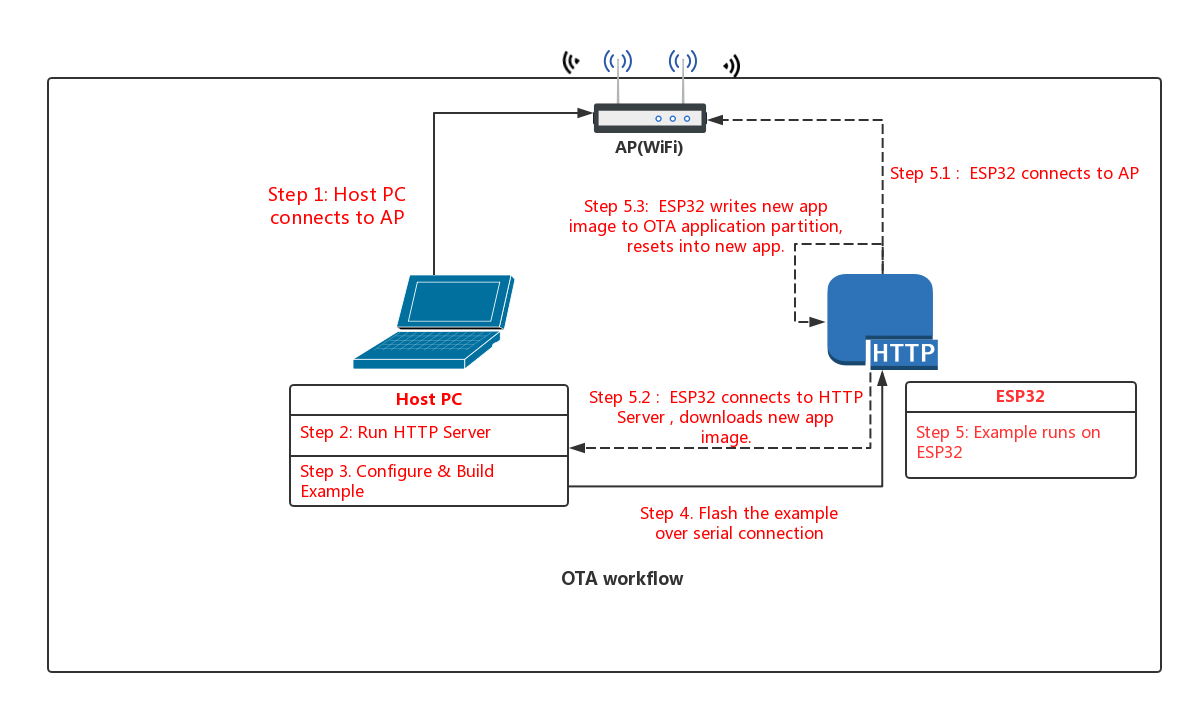
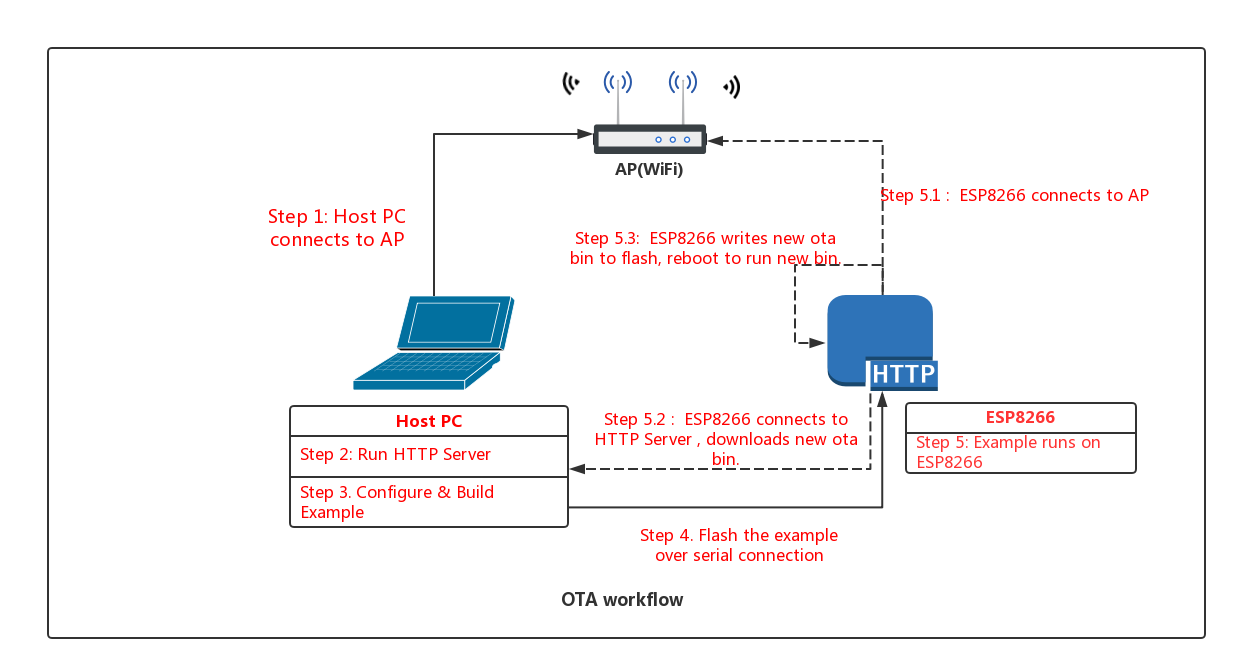
feat: port ota demo to esp8266 platform

Changed region(s): [[0.031, 0.0597, 0.9925, 0.9552], [0.6823, 0.209, 0.7133, 0.2388]]

diff --git a/examples/system/ota/main/ota_example_main.c b/examples/system/ota/main/ota_example_main.c
@@ -6,6 +6,7 @@
    software is distributed on an "AS IS" BASIS, WITHOUT WARRANTIES OR
    CONDITIONS OF ANY KIND, either express or implied.
 */
+#include <stdlib.h>
 #include <string.h>
 #include <sys/socket.h>
 #include <netdb.h>
@@ -28,7 +29,7 @@
 #define EXAMPLE_SERVER_IP   CONFIG_SERVER_IP
 #define EXAMPLE_SERVER_PORT CONFIG_SERVER_PORT
 #define EXAMPLE_FILENAME CONFIG_EXAMPLE_FILENAME
-#define BUFFSIZE 1024
+#define BUFFSIZE 1500
 #define TEXT_BUFFSIZE 1024
 
 static const char *TAG = "ota";

diff --git a/examples/system/ota/README.md b/examples/system/ota/README.md
@@ -9,9 +9,9 @@ This example is a *simplified demonstration*, for production firmware updates yo
 
 # Aim
 
-An app running on ESP32 can upgrade itself by downloading a new app "image" binary file, and storing it in flash.
+An app running on ESP8266 can upgrade itself by downloading a new app "image" binary file, and storing it in flash.
 
-In this example, the ESP32 has 3 images in flash: factory, OTA_0, OTA_1. Each of these is a self-contained partition. The number of OTA image partition is determined by the partition table layout.
+In this example, the ESP8266 has 3 images in flash: factory, OTA_0, OTA_1. Each of these is a self-contained partition. The number of OTA image partition is determined by the partition table layout.
 
 Flashing the example over serial with "make flash" updates the factory app image. On first boot, the bootloader loads this factory app image which then performs an OTA update (triggered in the example code). The update downloads a new image from an http server and saves it into the OTA_0 partition. At this point the example code updates the ota_data partition to indicate the new app partition, and resets. The bootloader reads ota_data, determines the new OTA image has been selected, and runs it.
 
@@ -24,7 +24,7 @@ The OTA_workflow.png diagram demonstrates the overall workflow:
 
 ## Step 1: Connect to AP
 
-Connect your host PC to the same AP that you will use for the ESP32.
+Connect your host PC to the same AP that you will use for the ESP8266.
 
 ## Step 2: Run HTTP Server
 
@@ -82,7 +82,7 @@ When the example starts up, it will print "ota: Starting OTA example..." then:
 
 # Troubleshooting
 
-* Check your PC can ping the ESP32 at its IP, and that the IP, AP and other configuration settings are correct in menuconfig.
+* Check your PC can ping the ESP8266 at its IP, and that the IP, AP and other configuration settings are correct in menuconfig.
 * Check if any firewall software is preventing incoming connections on the PC.
 * Check you can see the configured file (default hello-world.bin) if you browse the file listing at http://127.0.0.1/
 * If you have another PC or a phone, try viewing the file listing from the separate host.
